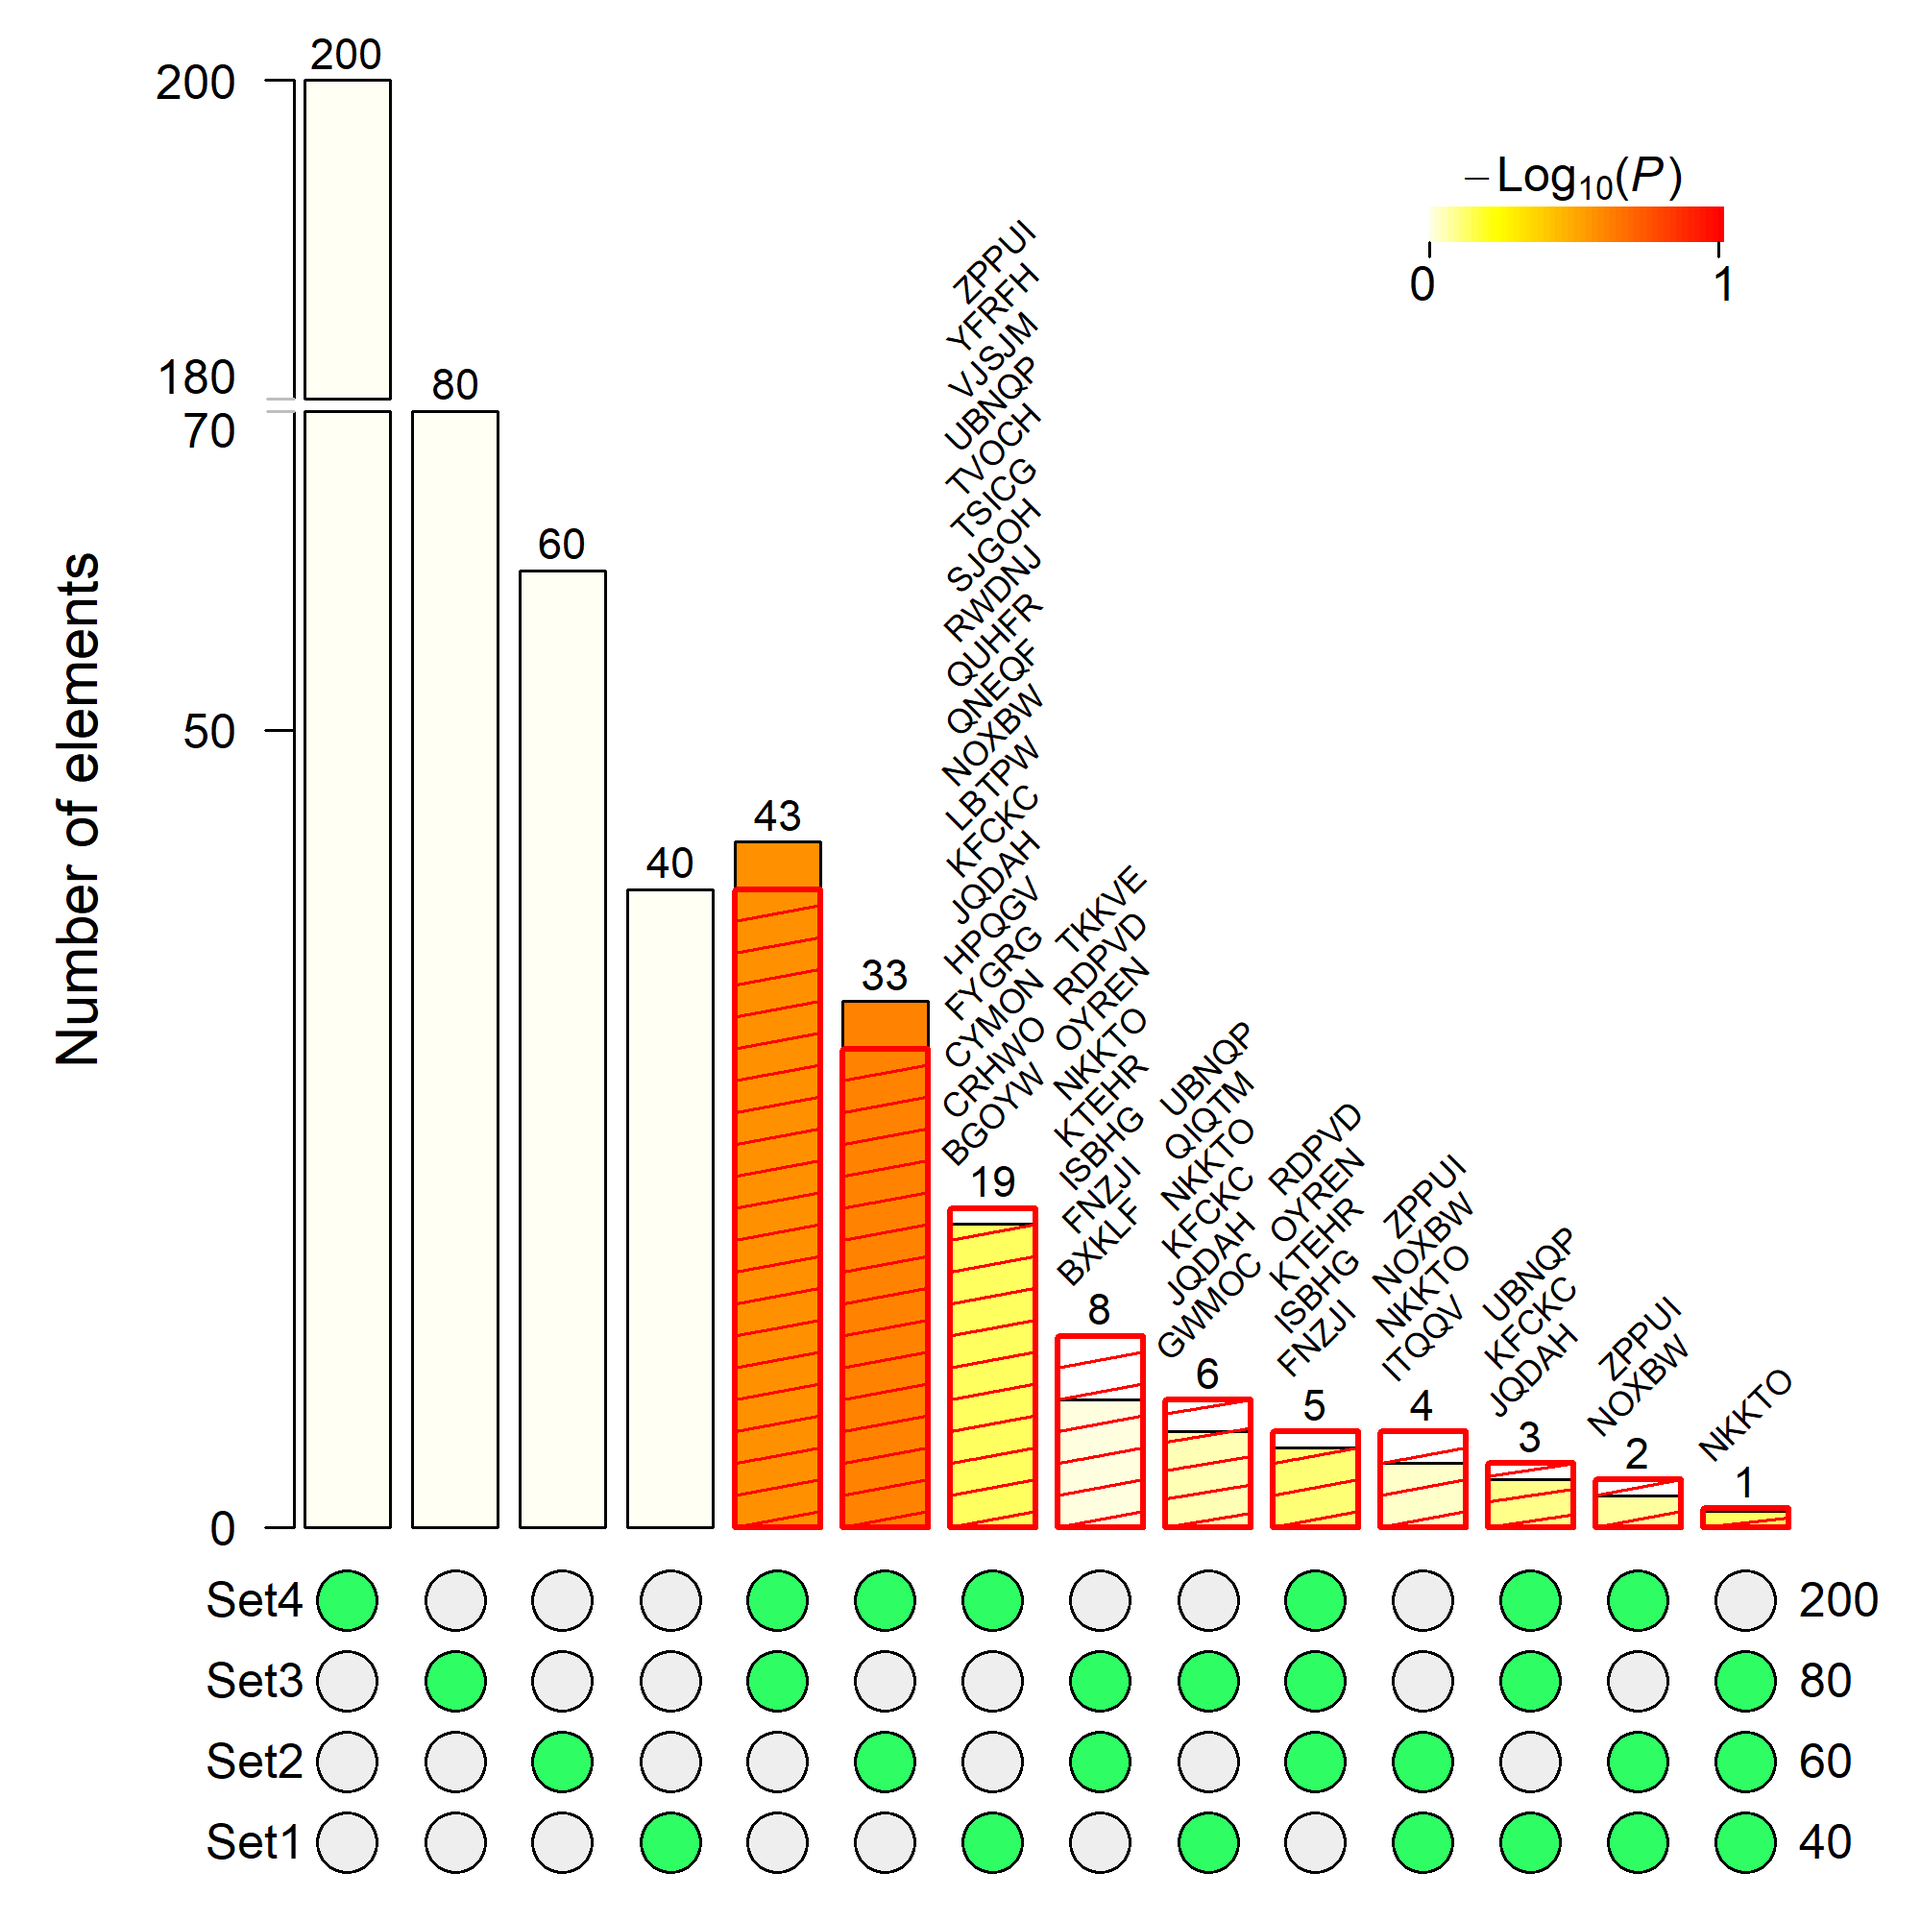
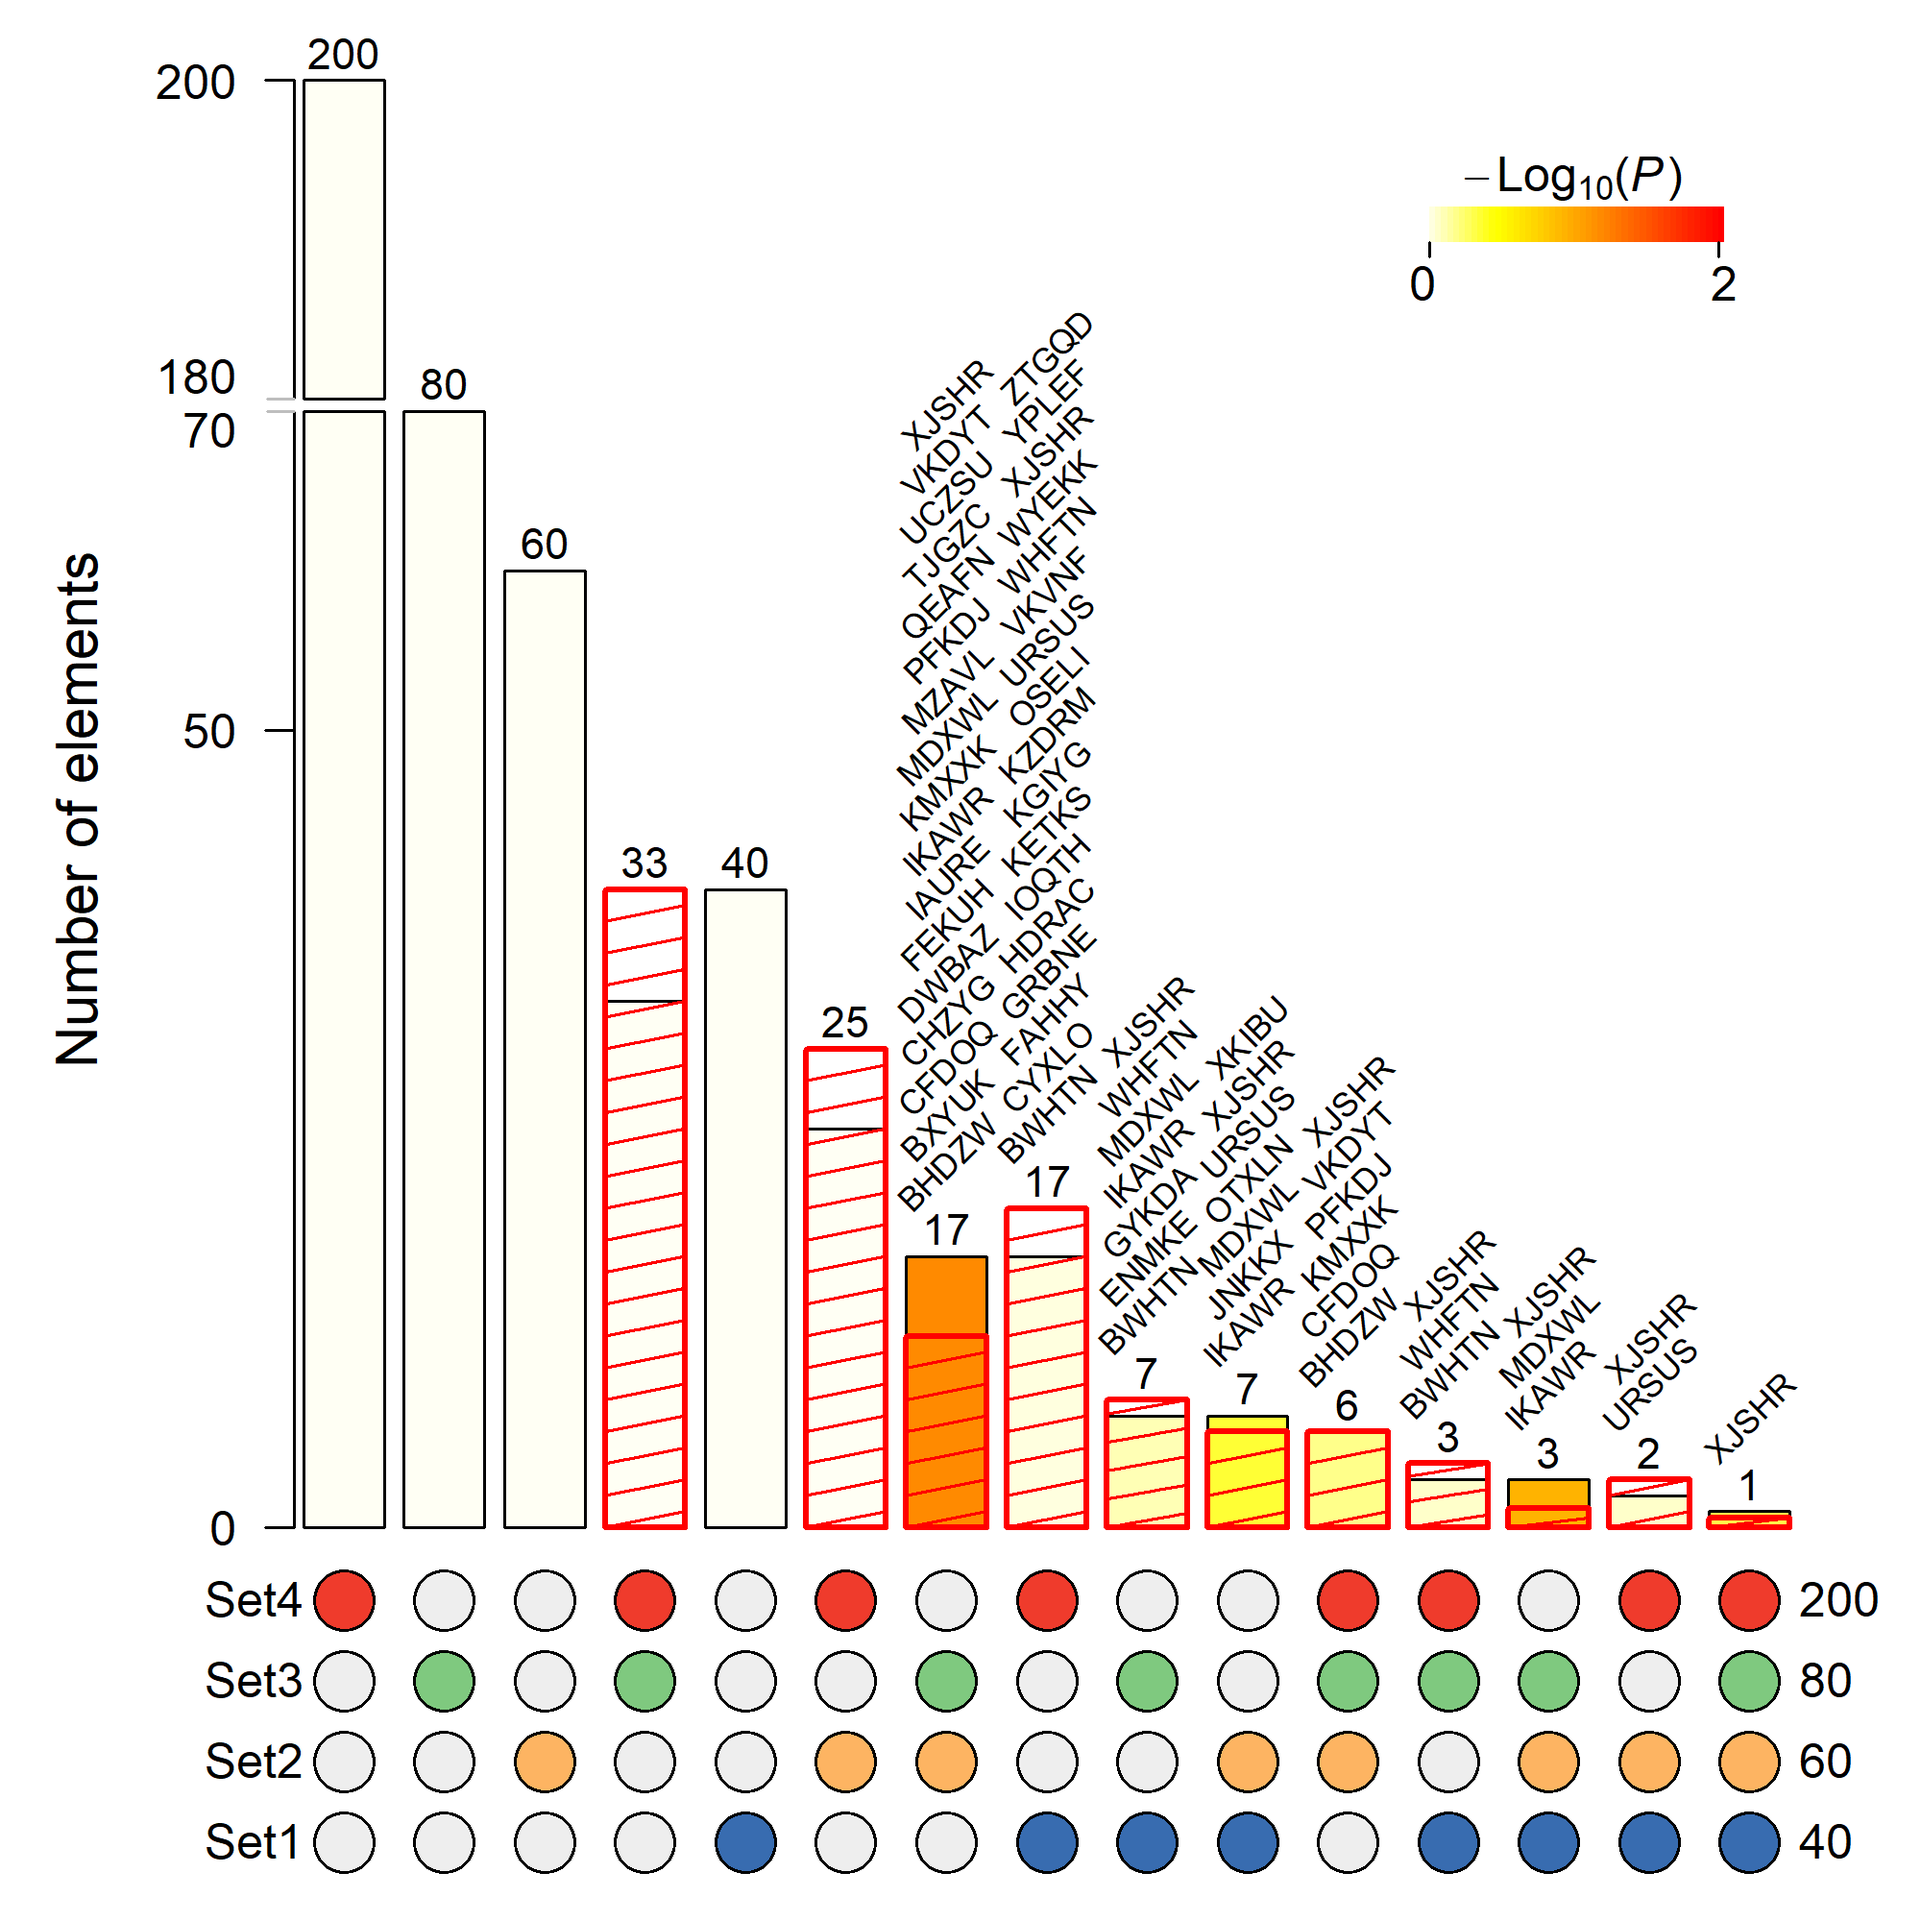
update README

diff --git a/README.md b/README.md
@@ -29,7 +29,7 @@ n=400
 r_strings <- do.call(paste0, replicate(5, sample(LETTERS, n, TRUE), FALSE))
 input=lapply(c(40,60,80,200),function(x,s) sample(s,x),s=r_strings)
 Result=supertest(input,n=n)
-#plot the intersections with a split y-axis
+#Plot the intersections with a split y-axis and 
 #show elements of the intersections with no more than 20 elements
 #png('examples/ex1.png',width=2000,height=2000,res=300)
 plot(Result, Layout="landscape", sort.by="size", keep=FALSE,
@@ -40,6 +40,19 @@ plot(Result, Layout="landscape", sort.by="size", keep=FALSE,
 #dev.off()
 ```
 <img src="examples/ex1.png" width="600" alt="sample output" />
+
+Assign discrete colors to denote the sets that are involved in each intersection by setting color.on to NULL or a vector of colors.
+```
+#png('examples/ex1color.png',width=2000,height=2000,res=300)
+plot(Result, Layout="landscape", sort.by="size", keep=FALSE,
+	bar.split=c(70,180), show.elements=TRUE, elements.cex=0.7,
+	elements.list=subset(summary(Result)$Table,Observed.Overlap <= 20),
+	show.expected.overlap=TRUE,expected.overlap.style="hatchedBox",
+	color.expected.overlap='red', color.on = NULL)
+#dev.off()
+```
+
+<img src="examples/ex1color.png" width="600" alt="sample output" />
 
 #### 2 Sort intersection bars
 As of version 1.0.7, we can change the order of the intersection bars in a customized way through option `sort.by`.
@@ -57,7 +70,7 @@ plot(Result, Layout="landscape", sort.by=order2, keep=FALSE,
         bar.split=c(70,180), show.elements=TRUE, elements.cex=0.7,
         elements.list=subset(summary(Result)$Table,Observed.Overlap <= 20),
         show.expected.overlap=TRUE,expected.overlap.style="hatchedBox",
-        color.expected.overlap='red')
+        color.expected.overlap='red', color.on = NULL)
 #dev.off()
 ```
 <img src="examples/ex2.png" width="600" alt="sample output" />
@@ -70,7 +83,7 @@ plot(Result, Layout="landscape", sort.by=order2, keep=FALSE,
         bar.split=c(70,180), show.elements=TRUE, elements.cex=0.7,
         elements.list=subset(summary(Result)$Table,Observed.Overlap <= 20),
         show.expected.overlap=TRUE,expected.overlap.style="hatchedBox",
-        color.expected.overlap='red',flip.vertical=TRUE)
+        color.expected.overlap='red', color.on = NULL, flip.vertical=TRUE)
 #dev.off()
 ```
 <img src="examples/ex3.png" width="600" alt="sample output" />
@@ -84,7 +97,7 @@ plot(Result, Layout="landscape", sort.by=order2, keep=FALSE,
 		show.fold.enrichment=TRUE,
 		elements.list=subset(summary(Result)$Table,Observed.Overlap <= 20),elements.rot=45,
         show.expected.overlap=TRUE,expected.overlap.style="hatchedBox",
-        color.expected.overlap='red')
+        color.expected.overlap='red', color.on = NULL)
 #dev.off()
 ```
 <img src="examples/ex4.png" width="600" alt="sample output" />
@@ -92,7 +105,7 @@ plot(Result, Layout="landscape", sort.by=order2, keep=FALSE,
 #### 5 Place multiple SuperExactTest plots on the same page
 We can combine multiple SuperExactTest plots on the same page by setting new.gridPage = FALSE. For example, to arrange two SuperExactTest figures side by side, we can:
 ```
-#png('examples/ex5.png',width=3500,height=2000,res=300)
+#png('examples/ex5.png',width=4000,height=2000,res=300)
 grid.newpage()
 vp0 <- viewport(layout = grid.layout(1, 2))
 vp1 <- viewport(layout.pos.col = 1, layout.pos.row = 1, name = "plot_left")
@@ -103,11 +116,13 @@ seekViewport("plot_left")
 plot(Result, Layout="landscape", sort.by='size', keep=FALSE,
         bar.split=c(70,180), show.fold.enrichment=TRUE,
         show.expected.overlap=TRUE, expected.overlap.style="hatchedBox",
-        color.expected.overlap='red', title = 'Figure A. Landscape layout', new.gridPage = FALSE)
+        color.expected.overlap='red', color.on = NULL,
+        title = 'Figure A. Landscape layout', new.gridPage = FALSE)
 seekViewport("plot_right")
 plot(Result, Layout="circular", sort.by='size', keep=FALSE,
         show.expected.overlap=TRUE,expected.overlap.style="hatchedBox",
-        color.expected.overlap='red', title = 'Figure B. Circular layout', new.gridPage = FALSE)
+        color.expected.overlap='red', color.on = NULL,
+        title = 'Figure B. Circular layout', new.gridPage = FALSE)
 #dev.off()
 ```
-<img src="examples/ex5.png" width="800" alt="sample output" />
+<img src="examples/ex5.png" width="1000" alt="sample output" />

diff --git a/examples/set_html.Md b/examples/set_html.Md
@@ -215,7 +215,7 @@ plot(res, sort.by="size", margin=c(2,2,2,2), color.scale.pos=c(0.85,1), legend.p
 
 ![A circular plot visualizing all possible intersections and the corresponding statistics amongst *cis*-eQTL gene sets.](figure/fig1-1.png)
 
-The four tracks in the middle represent the four gene sets, with individual blocks showing "presence" (green) or "absence" (grey) of the gene sets in each intersection.
+The four tracks in the middle represent the four gene sets, with individual blocks showing "presence" (green) or "absence" (grey) of the gene sets in each intersection. To denote the four gene sets with different colors, set argument `color.on` to NULL or provide it with a vector of user-defined colors.
 The height of the bars in the outer layer is proportional to the intersection sizes, as indicated by the numbers on the top of the bars. The color intensity of the bars represents the P value significance of the intersections.
 
 As the option name suggests, `sort.by="size"` instructs the intersections to be sorted by size. Users are flexible to use different color schemes or sort intersections by P value, set, size or degree.
